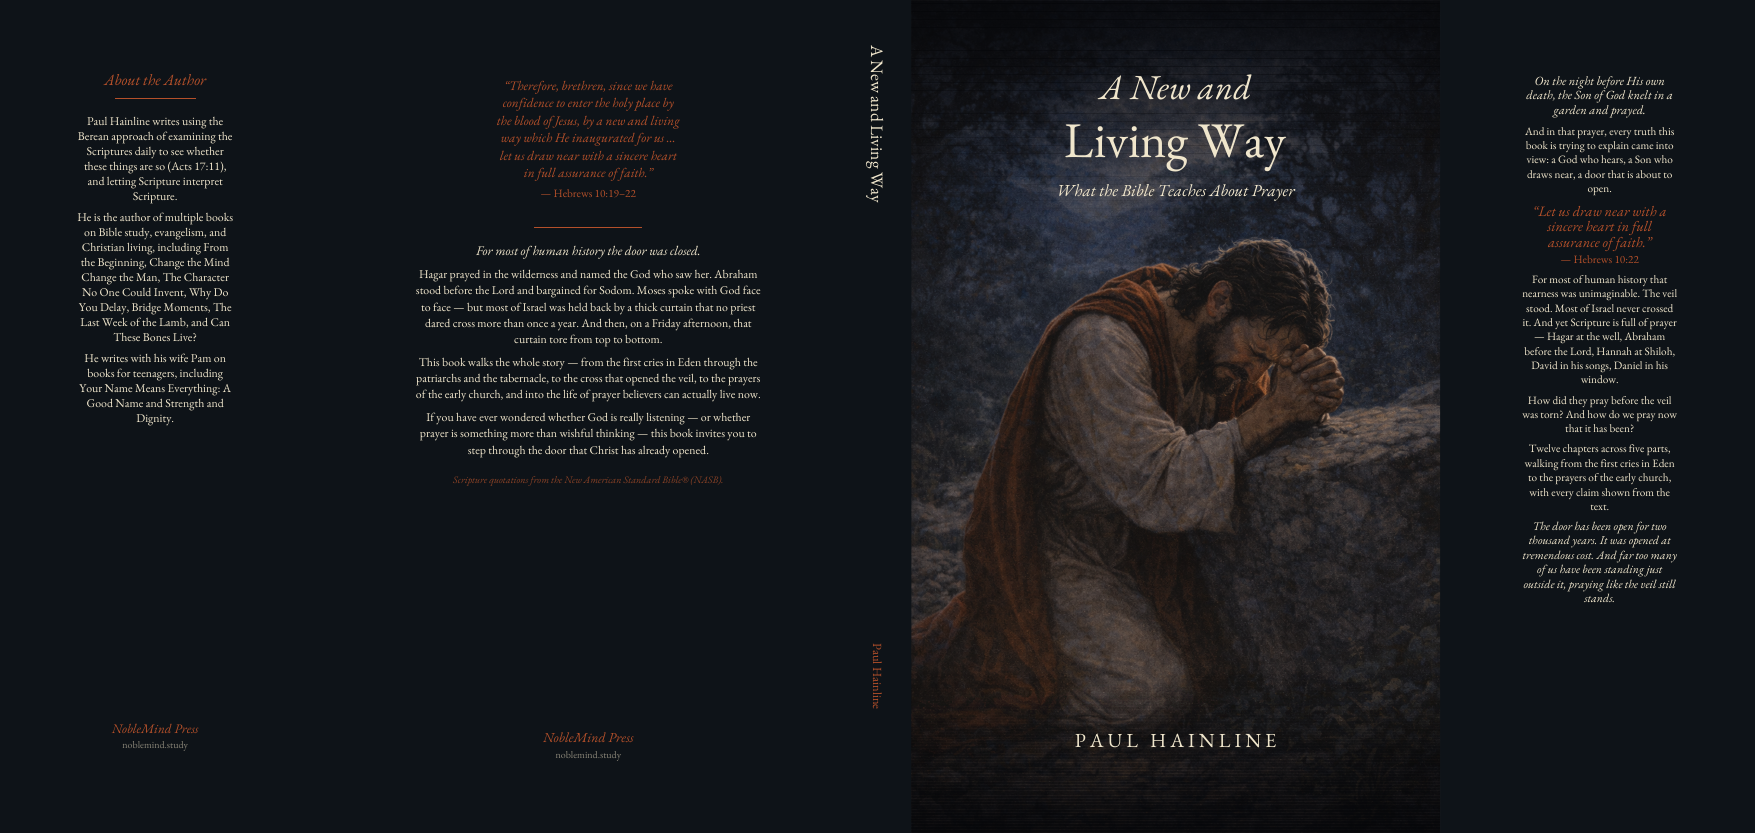
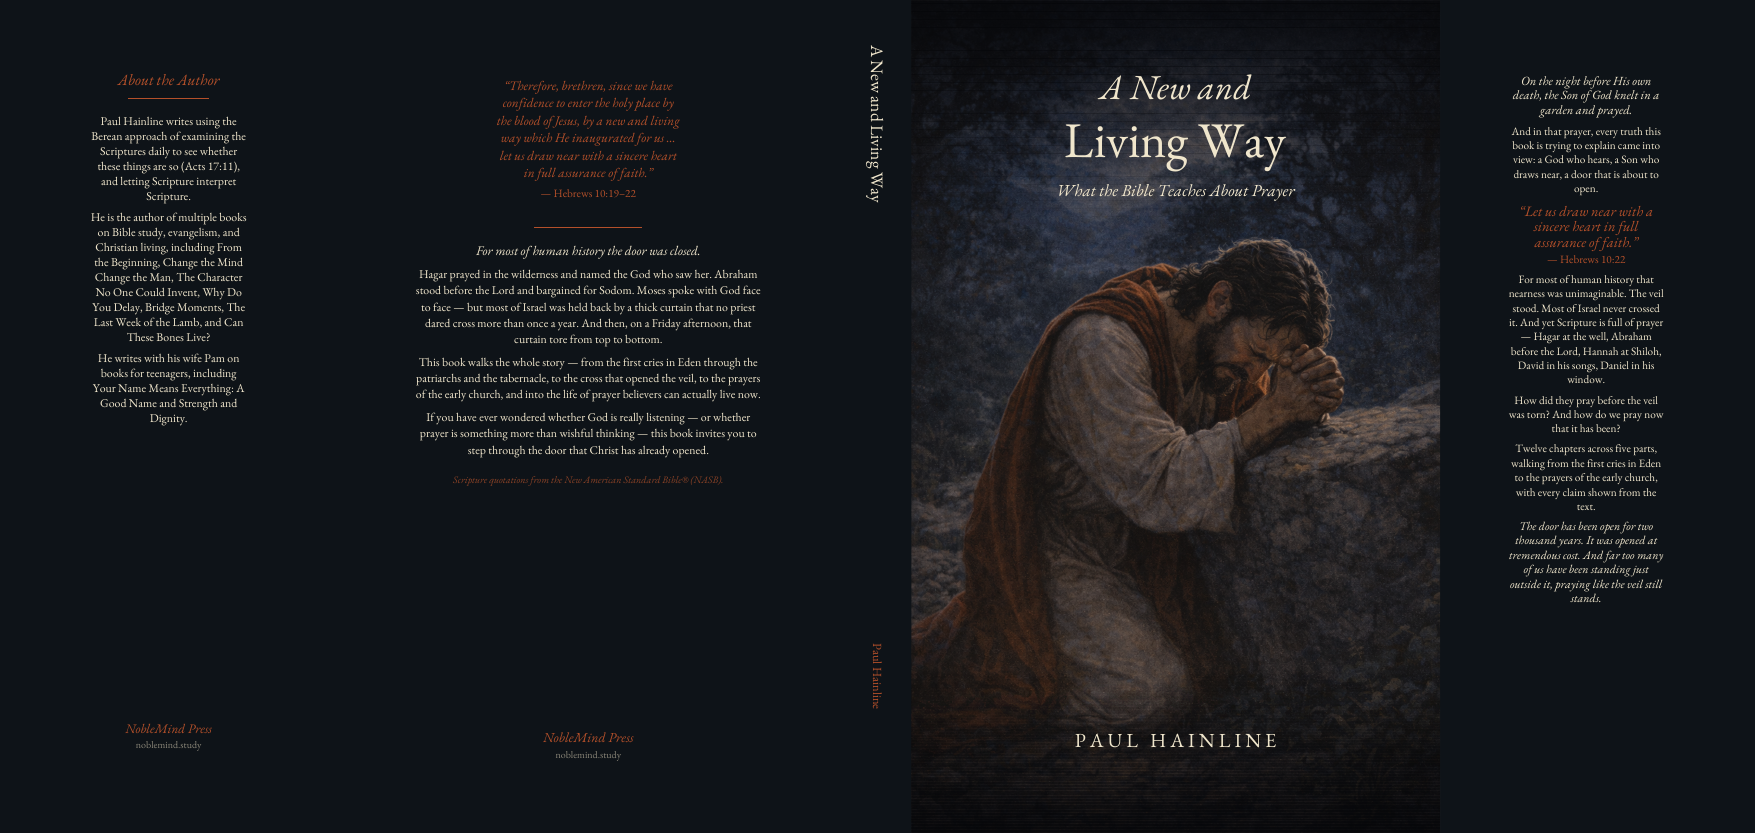
ANewAndLivingWay: flap text shifted further toward spine on jacket
Lulu preview review (2026-05-14): the 0.10" visual shift I'd applied
to both flaps and back cover was too small for the flaps. The flap
text needed ~0.25" of spine-ward shift, matching CTBL's original
value. Back cover at 0.10" looked balanced.

Split VISUAL_SHIFT into BACK_VISUAL_SHIFT (0.10") and FLAP_VISUAL_SHIFT
(0.25") so the two surfaces can be tuned independently.

diff --git a/ANewAndLivingWay/generate_lulu_hardcover_jacket.py b/ANewAndLivingWay/generate_lulu_hardcover_jacket.py
@@ -90,7 +90,13 @@ SLATE       = Color(0.545, 0.529, 0.475)   # #8B8779
 FLAP_SAFETY      = 0.75 * inch
 BACK_BLURB_INSET = 1.00 * inch
 COVER_SAFETY     = 0.5  * inch
-VISUAL_SHIFT     = 0.10 * inch   # nudge flap & back text toward spine
+
+# Visual shifts — text nudged toward the spine because the jacket wraps
+# around the board edges. Per Paul's Lulu preview review 2026-05-14,
+# the flaps needed a noticeably bigger shift than the back cover. Back
+# cover looked balanced at 0.10"; flaps required ~0.25".
+BACK_VISUAL_SHIFT = 0.10 * inch
+FLAP_VISUAL_SHIFT = 0.25 * inch
 
 
 def _load_hires_cover():
@@ -229,7 +235,7 @@ def draw_back_cover(c):
     safe_left  = BACK_COVER_LEFT + BACK_BLURB_INSET
     safe_right = BACK_COVER_RIGHT - BACK_BLURB_INSET
     text_width = safe_right - safe_left
-    cx = BACK_CENTER_X + VISUAL_SHIFT
+    cx = BACK_CENTER_X + BACK_VISUAL_SHIFT
 
     # --- Anchor verse (italic copper) ---
     y = DOC_H - 1.0 * inch
@@ -311,7 +317,7 @@ def draw_front_flap(c):
     safe_left  = FRONT_FLAP_LEFT + FLAP_SAFETY
     safe_right = FRONT_FLAP_RIGHT - FLAP_SAFETY
     text_width = safe_right - safe_left
-    flap_cx = (FRONT_FLAP_LEFT + FRONT_FLAP_RIGHT) / 2 - VISUAL_SHIFT
+    flap_cx = (FRONT_FLAP_LEFT + FRONT_FLAP_RIGHT) / 2 - FLAP_VISUAL_SHIFT
 
     c.setFillColor(CREAM)
     y = DOC_H - 0.95 * inch
@@ -379,7 +385,7 @@ def draw_back_flap(c):
     safe_left  = BACK_FLAP_LEFT + FLAP_SAFETY
     safe_right = BACK_FLAP_RIGHT - FLAP_SAFETY
     text_width = safe_right - safe_left
-    flap_cx = (BACK_FLAP_LEFT + BACK_FLAP_RIGHT) / 2 + VISUAL_SHIFT
+    flap_cx = (BACK_FLAP_LEFT + BACK_FLAP_RIGHT) / 2 + FLAP_VISUAL_SHIFT
 
     c.setFillColor(COPPER)
     y = DOC_H - 0.95 * inch
